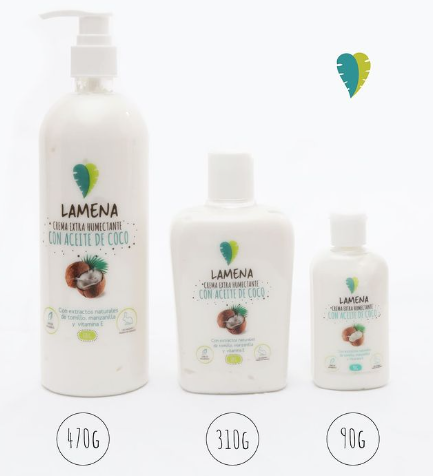
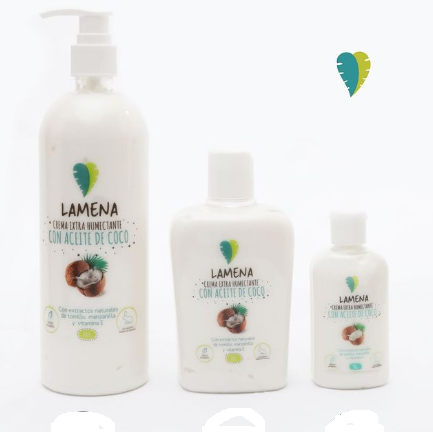
con imagenes optimizadas en desktop

diff --git a/styles.css b/styles.css
@@ -99,11 +99,13 @@ header{
     }  
 
     .item {
+
+        display: block;
         background-color: lightblue;
         padding: 20px;
-        margin: 10px;
+        margin: 1px;
         border: 1px solid #ccc;
-        height: 200px;
+        height: 253px;
         min-width: 200px; /* Ancho mínimo para cada contenedor */
         text-align: center; 
 
@@ -120,5 +122,12 @@ header{
      .logo_inicial{
         margin-left: 290px;
      }   
+
+     .imagen{
+        display: block;
+        height:250px ;
+        width: 240px;
+        margin-bottom: 10px;
+     }
 
     }

diff --git a/tienda_guau.html b/tienda_guau.html
@@ -35,11 +35,11 @@
 
 <body>
 <div class="container">
-    <div class="item">cuidado personal</div>
+    <div class="item"><img  class = "imagen" src="cremas.png"></div>
 
-    <div class="item">Zapatos</div>
+    <div class="item"><img  class = "imagen" src="zapatos.png"></div>
 
-    <div class ="item"> Hogar</div>
+    <div class ="item"><img  class = "imagen" src="rallador.png"></div>
 
 
 

diff --git a/scritp.js b/scritp.js
@@ -1,0 +1,1 @@
+<img  class = "imagen" src="cremas.png"></img>
